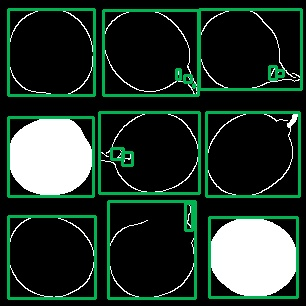
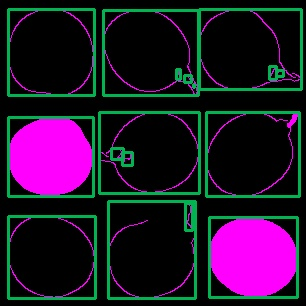
TemplateDetection kommentiert

diff --git a/src/TemplateDetection.java b/src/TemplateDetection.java
@@ -13,95 +13,107 @@ import java.util.*;
 
 public class TemplateDetection {
 
-    private Mat image;
-
-    public TemplateDetection(Mat image){
-        this.setImage(image);
+    public TemplateDetection() {
     }
 
-    public TemplateDetection(){}
-
-    public Mat scaleMat(Mat src){
+    // Verkleinern das Originalbild um die hälfte
+    public Mat scaleMat(Mat src) {
 
         // Creating an empty matrix to store the result
         Mat dst = new Mat();
         // Creating the Size object
-        Size size = new Size(src.cols()*0.5, src.rows()*0.5);
+        Size size = new Size(src.cols() * 0.5, src.rows() * 0.5);
         // Scaling the Image
-        Imgproc.resize(src, dst, size, 0,0, Imgproc.INTER_AREA);
+        Imgproc.resize(src, dst, size, 0, 0, Imgproc.INTER_AREA);
         System.out.println("rescaled");
         return dst;
     }
 
-
-
-    public Mat colorToGray(Mat src){
+    // Umwandeln der Farbmatrix zu grau
+    public Mat colorToGray(Mat src) {
         // convert into gray image
         Mat grayMat = new Mat();
         Imgproc.cvtColor(src, grayMat, Imgproc.COLOR_BGR2GRAY);
         return grayMat;
     }
 
+    /**
+     * Rect edgeDetection(Mat src)
+     *
+     * Zusammenfassung der edgeDetection Funktion:
+     *
+     *    Sucht das Rechteck welches am besten für das Template geeignet ist
+     *
+     * @param src Mat Originalbild
+     * @return    Rechteck
+     */
     public Rect edgeDetection(Mat src) throws IOException {
 
-        // convert into grayscale
+        /**
+         * Umwandel in ein Graustufenbild
+         */
         Mat gray = colorToGray(src);
 
-        // Gaussian Blur
+        /**
+         * Gaussian Blur
+         * Kernel von 3x3 funktioniert für die Tests gut, mit sigmaX Wert von 1
+         */
         Mat blur = new Mat();
-        Imgproc.GaussianBlur(gray, blur, new Size(3,3), 1);
+        Imgproc.GaussianBlur(gray, blur, new Size(3, 3), 1);
         Imgcodecs.imwrite("Bilder/Blur7x7x1.jpg", blur);
 
-        // Detecting the edges
+        /**
+         * Kantenbild
+         * Canny threshold Werte: sollten im Verhältnis von 1:2 oder 1:3 sein (lower:upper)
+         * Kernel Size von 3, siehe Dokumentation
+         */
         Mat edges = new Mat();
         Imgproc.Canny(blur, edges, 75, 150,3);
         Imgcodecs.imwrite("Bilder/canny.jpg", edges);
 
-        // find contours
+
+        /**
+         * Kantenfinden
+         * RETR_EXTERNAL wird verwendet, da es die Außenkontur gibt.
+         * CHAIN_APPROX_SIMPLE wird verwendet, spart viel Speicher.
+         */
         List<MatOfPoint> contours = new ArrayList<>();
-        Point contour_line = new Point();
         Mat hierarchy = new Mat();
         Imgproc.findContours(edges, contours, hierarchy, Imgproc.RETR_EXTERNAL, Imgproc.CHAIN_APPROX_SIMPLE);
 
-        //Imgcodecs.imwrite("Bilder/drawcontours3.jpg", MoP2f);
+        //Imgcodecs.imwrite("Bilder/drawcontours3.jpg", edges);
         System.out.println("Hierarch elementsize: " + hierarchy.elemSize());
 
-        // Draw contours in contourMat
+        /**
+         * Zeichne die Konturen
+         * contourIdx: -1, damit alle Konturen eingezeichnet werden
+         */
         Mat contourMat = Mat.zeros(gray.size(), CvType.CV_8UC3);
-        Scalar white = new Scalar(255, 255, 255);
+        Scalar white = new Scalar(255, 0, 255);
         Imgproc.drawContours(contourMat, contours, -1, white);
-
         Imgcodecs.imwrite("Bilder/drawcontours1.jpg", contourMat);
 
-        for(int i = 0; i < contours.size(); i++){
-            System.out.println("contourmat: " + contours.get(i).size().area());
-            if(contours.get(i).size().area() > 80){
-                Imgproc.drawContours(contourMat, contours, i, new Scalar(0,255,0), -1);
-            }
-        }
-        Imgcodecs.imwrite("Bilder/drawcontours2.jpg", contourMat);
-
-        // fill
-        for(MatOfPoint contour: contours){
-            Imgproc.fillPoly(contourMat, Arrays.asList(contour), white);
+        /**
+         * Füllen von Polygon
+         */
+        for (MatOfPoint contour : contours) {
+            Imgproc.fillPoly(contourMat, Collections.singletonList(contour), white);
         }
         Imgcodecs.imwrite("Bilder/filled2.jpg", contourMat);
 
-        //Creating destination matrix
-
-        //Preparing the kernel matrix object
         /*
         Mat kernel = Mat.ones(5,5, CvType.CV_32F);
         Imgproc.morphologyEx(contourMat, contourMat, Imgproc.MORPH_OPEN, kernel);
         Imgcodecs.imwrite("Bilder/morphOpen.jpg", contourMat);
         */
 
-        // Draw rectangle around the contours
-        Scalar green = new Scalar(81,180,0);
-        List<RotatedRect> rotatedRectList = new ArrayList<RotatedRect>();
+        /**
+         * Rechtecke um die gefundenen Konturen einzeichnen.
+         */
+        Scalar green = new Scalar(81, 180, 0);
         List<Rect> rectList = new ArrayList<>();
 
-        for(MatOfPoint contour: contours){
+        for (MatOfPoint contour : contours) {
             Rect rect = Imgproc.boundingRect(new MatOfPoint2f(contour.toArray()));
             rectList.add(rect);
             Imgproc.rectangle(contourMat, new Point(rect.x, rect.y), new Point(rect.x + rect.width, rect.y + rect.height), green, 2);
@@ -109,20 +121,22 @@ public class TemplateDetection {
         Imgcodecs.imwrite("Bilder/rect3.jpg", contourMat);
 
 
-
-        //Todo: vielleicht mittelwert überalle bilden und die area verwenden
-        //RotatedRect rotatedRect = findArea(rotatedRectList);
-        //System.out.println("Größe?: " + rotatedRect.size.area());
-
         Rect area = averageArea(rectList);
-        System.out.println("Area: "+ area.area());
-
+        System.out.println("Area: " + area.area());
 
         Imgcodecs.imwrite("Bilder/contours4.jpg", contourMat);
         return area;
     }
 
-    public Mat cropTemplate(Mat image_original, Rect rect){
+
+    /**
+     * Schneidet das Template aus dem Originalbild aus.
+     *
+     * @param image_original Originalbild
+     * @param rect           Rechteck welches zuvor in edgeDetection bestimmt wurde.
+     * @return               Template welches für TemplateMatching und später für Tensorflow benötigt wird.
+     */
+    public Mat cropTemplate(Mat image_original, Rect rect) {
 
         Mat image_output = image_original.submat(rect);
         Imgcodecs.imwrite("Bilder/image_output2.jpg", image_output);
@@ -130,30 +144,45 @@ public class TemplateDetection {
         return image_output;
     }
 
-    public List<Rect> removeZeros(List<Rect> rectList){
+    /**
+     * Entfernt alle Flächen mit dem Wert 0.
+     *
+     * @param rectList Liste von allen gefundenen Rechtecken
+     * @return         Liste ohne Werte, die Fläche 0 haben
+     */
+    public List<Rect> removeZeros(List<Rect> rectList) {
 
         rectList.removeIf(r -> r.area() == 0);
 
         return rectList;
     }
 
-    public Rect averageArea(List<Rect> rectList){
+    /**
+     * Berechnet die Durchschnittsfläche der Rechtecke
+     * Sucht das Rechteck welches am besten zum Mittelwert passt
+     *
+     * @param rectList Liste von allen gefundenen Rechtecken
+     * @return         Rechteck von welchem die Flache am besten zum Mittelwert passt
+     */
+    public Rect averageArea(List<Rect> rectList) {
         double mean = 0;
         double sum = 0;
 
         rectList = removeZeros(rectList);
 
-        for(Rect r: rectList){
+        for (Rect r : rectList) {
             sum += r.area();
         }
-        mean = sum/rectList.size();
+        mean = sum / rectList.size();
 
-        // gucken welches element am nächsten beim mittelwert ist
+        /**
+         * Prüfuen welches Rechteck am nächsten beim Mittelwert ist
+         */
         double distance = Math.abs(rectList.get(0).area() - mean);
         int index = 0;
-        for(int c = 1; c < rectList.size(); c++){
-            double cdistance = Math.abs(rectList.get(c).area()-mean);
-            if(cdistance < distance){
+        for (int c = 1; c < rectList.size(); c++) {
+            double cdistance = Math.abs(rectList.get(c).area() - mean);
+            if (cdistance < distance) {
                 index = c;
                 distance = cdistance;
             }
@@ -161,15 +190,7 @@ public class TemplateDetection {
 
         double finalArea = rectList.get(index).area();
         Rect rect = rectList.get(index);
-        System.out.println("Mittelwert: "+ mean+ " FinalArea: " + finalArea);
+        System.out.println("Mittelwert: " + mean + " FinalArea: " + finalArea);
         return rect;
-    }
-
-    public Mat getImage() {
-        return image;
-    }
-
-    public void setImage(Mat image) {
-        this.image = image;
     }
 }
